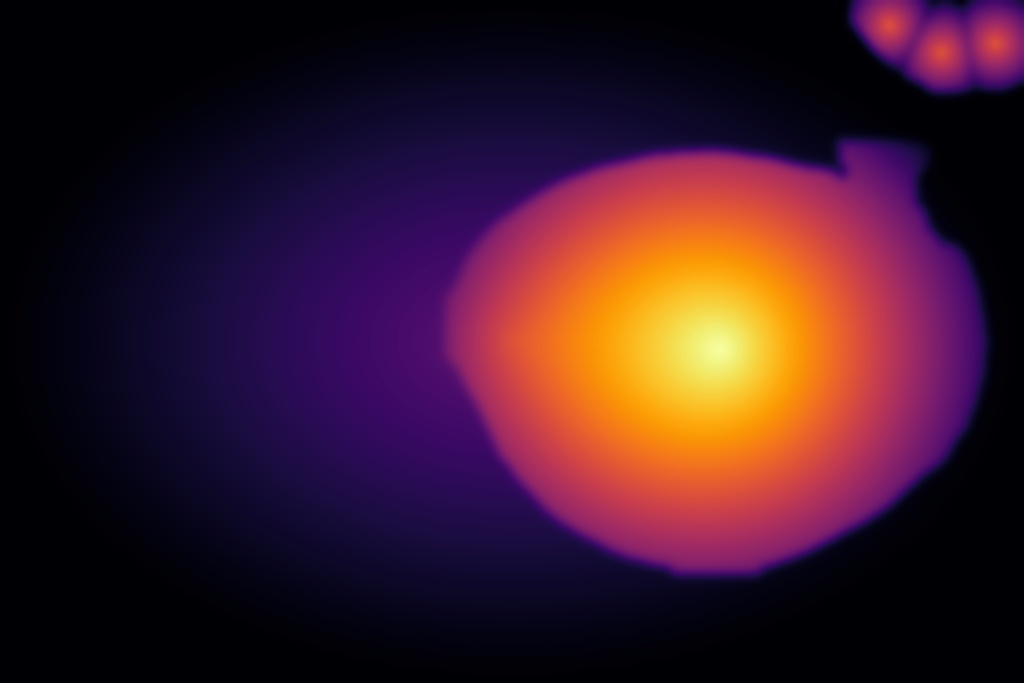
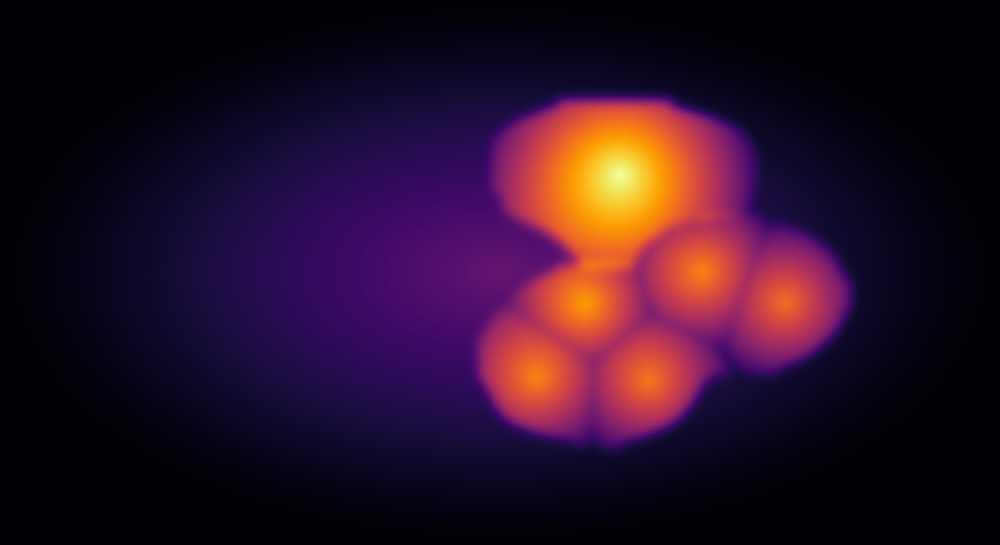
feat: implement hybrid food segmentation pipeline using YOLOv8 and GrabCut with HSV-based green filtering

Changed region(s): [[0.434, 0.156, 0.992, 0.8734], [0.806, 0.0, 1.0, 0.156]]

diff --git a/nutrilens_backend/test_yolo_depth.py b/nutrilens_backend/test_yolo_depth.py
@@ -1,7 +1,6 @@
 """
 test_yolo_depth.py  –  NutriVision local AI pipeline demo
-Uses REAL YOLOv8n-seg for boundaries where possible (COCO items).
-Falls back to GPT-guided Box + GrabCut for ethnic foods YOLO misses (like Parotta).
+Uses REAL YOLOv8n-seg for liquid bowls, and Foreground/HSV extraction for ALL solid Indian foods.
 """
 
 import sys, os, time, base64, json, re
@@ -36,13 +35,11 @@ def _b64(path):
         return base64.b64encode(f.read()).decode()
 
 def gpt_get_foods(image_path):
-    if not GITHUB_TOKEN: return {"solid": "Dosa", "solid_count": 3, "solid_bbox": [0.1, 0.1, 0.8, 0.8], "liquid": "Sambar"}
-    
+    if not GITHUB_TOKEN: return {"solid": "Dosa", "solid_count": 3, "liquid": "Sambar"}
     prompt = (
         "Identify the food in this image. Return ONE JSON object with these keys:\n"
-        "- 'solid': name of the main solid food (e.g. 'Dosa', 'Parotta')\n"
-        "- 'solid_count': integer number of pieces of solid food (e.g. 3 if there are 3 dosas)\n"
-        "- 'solid_bbox': [x, y, w, h] of the ENTIRE stack/area of the solid food, as fractions (0.0-1.0).\n"
+        "- 'solid': name of the main solid food (e.g. 'Dosa', 'Parotta', 'Idli')\n"
+        "- 'solid_count': integer number of pieces of solid food on the plate (e.g. 3 if there are 3 dosas/idlis). Include smaller items like Vadas in this count.\n"
         "- 'liquid': name of the main liquid/curry (e.g. 'Chicken Curry', 'Sambar')\n"
         "Return ONLY JSON. No markdown."
     )
@@ -62,18 +59,17 @@ def gpt_get_foods(image_path):
         if m: 
             data = json.loads(m.group(0))
             if "solid_count" not in data: data["solid_count"] = 1
-            if "solid_bbox" not in data: data["solid_bbox"] = [0.1, 0.1, 0.8, 0.8]
             return data
     except: pass
-    return {"solid": "Food", "solid_count": 1, "solid_bbox": [0.1, 0.1, 0.8, 0.8], "liquid": "Curry"}
+    return {"solid": "Food", "solid_count": 2, "liquid": "Curry"}
 
 def get_density(name):
     n = name.lower()
     if any(x in n for x in ['curry', 'sambar', 'chutney', 'dal']): return 0.90
     if any(x in n for x in ['rice', 'biryani']): return 0.75
     if any(x in n for x in ['dosa', 'parotta', 'chapathi']): return 0.35
+    if any(x in n for x in ['idli', 'vada']): return 0.25 
     return 0.5
-
 
 def run_real_yolo(img_path, img):
     model = YOLO("yolov8n-seg.pt")
@@ -82,66 +78,83 @@ def run_real_yolo(img_path, img):
     results = model(img_path, verbose=False)[0]
     inf_time = (time.time() - start) * 1000
     
-    if results.masks is None: return [], inf_time
+    if results.masks is None: return [], [], None, inf_time
         
+    boxes = results.boxes.xyxy.cpu().numpy().astype(int)
     clss = results.boxes.cls.cpu().numpy().astype(int)
     confs = results.boxes.conf.cpu().numpy()
     contours = results.masks.xy
     
-    # 45=bowl, 48=sandwich, 53=pizza, 54=donut, 55=cake. NO DINING TABLE (60)
-    allowed_classes = {45, 46, 47, 48, 49, 50, 51, 52, 53, 54, 55}
+    plate_box = None
+    liquid_masks = []
+    solid_masks = []
     
-    raw_masks = []
+    allowed_solids = {46, 47, 48, 49, 50, 51, 52, 53, 54, 55}
+    
     for i in range(len(clss)):
         cls = clss[i]
-        if cls not in allowed_classes: continue
+        if cls == 60:
+            plate_box = boxes[i]
+            continue
+            
         if confs[i] < 0.25: continue 
-        
         cnt = np.array(contours[i], dtype=np.int32).reshape(-1, 1, 2)
         if len(cnt) < 3: continue
         mask = np.zeros((h, w), np.uint8)
         cv2.drawContours(mask, [cnt], -1, 255, cv2.FILLED)
-        raw_masks.append({"cls": cls, "mask": mask, "conf": float(confs[i])})
         
-    return raw_masks, inf_time
+        if cls == 45: # BOwls
+            liquid_masks.append({"cls": cls, "mask": mask, "conf": float(confs[i]), "contour": max(cv2.findContours(mask, cv2.RETR_EXTERNAL, cv2.CHAIN_APPROX_SIMPLE)[0], key=cv2.contourArea)})
+        elif cls in allowed_solids:
+            solid_masks.append({"cls": cls, "mask": mask, "conf": float(confs[i]), "contour": max(cv2.findContours(mask, cv2.RETR_EXTERNAL, cv2.CHAIN_APPROX_SIMPLE)[0], key=cv2.contourArea)})
+        
+    return liquid_masks, solid_masks, plate_box, inf_time
 
 
-def fallback_grabcut_mask(img, bbox_frac):
-    """If YOLO misses ethnic food (like Parotta), GrabCut from GPT Bounding Box."""
+def fallback_hsv_mask(img, plate_box, existing_masks):
     h, w = img.shape[:2]
-    fx, fy, fw, fh = bbox_frac
-    x = int(fx * w)
-    y = int(fy * h)
-    bw = int(fw * w)
-    bh = int(fh * h)
+    if plate_box is None:
+        plate_box = [max(int(w*0.05), 0), max(int(h*0.05), 0), min(int(w*0.95), w), min(int(h*0.95), h)]
+        
+    x1, y1, x2, y2 = plate_box
+    bx, by, bw, bh = max(0, x1), max(0, y1), max(10, x2-x1), max(10, y2-y1)
     
-    # Pad box slightly
-    pad = 10
-    x, y = max(0, x-pad), max(0, y-pad)
-    bx, by = min(w, x+bw+pad*2), min(h, y+bh+pad*2)
-    bw, bh = bx-x, by-y
-    
-    if bw < 10 or bh < 10: return None
-    
-    mask = np.zeros((h, w), np.uint8)
+    gc_mask = np.zeros((h, w), np.uint8)
     bgdModel = np.zeros((1, 65), np.float64)
     fgdModel = np.zeros((1, 65), np.float64)
     
     try:
-        cv2.grabCut(img, mask, (x,y,bw,bh), bgdModel, fgdModel, 4, cv2.GC_INIT_WITH_RECT)
-        gc_mask = np.where((mask==1)|(mask==3), 255, 0).astype('uint8')
-        # Smooth and keep largest component
-        cnts, _ = cv2.findContours(gc_mask, cv2.RETR_EXTERNAL, cv2.CHAIN_APPROX_SIMPLE)
-        if cnts:
-            largest = max(cnts, key=cv2.contourArea)
-            if cv2.contourArea(largest) > (w*h)*0.01:
-                final = np.zeros_like(gc_mask)
-                cv2.drawContours(final, [largest], -1, 255, cv2.FILLED)
-                k_close = cv2.getStructuringElement(cv2.MORPH_ELLIPSE, (15, 15))
-                return cv2.morphologyEx(final, cv2.MORPH_CLOSE, k_close)
-    except: pass
-    return None
+        cv2.grabCut(img, gc_mask, (bx, by, bw, bh), bgdModel, fgdModel, 4, cv2.GC_INIT_WITH_RECT)
+        fg_mask = np.where((gc_mask==1)|(gc_mask==3), 255, 0).astype('uint8')
+    except:
+        return None
 
+    # Subtract Green (Banana Leaf) using 36 so we don't accidentally kill yellow/brown shadows
+    hsv = cv2.cvtColor(img, cv2.COLOR_BGR2HSV)
+    lower_green = np.array([36, 40, 40])
+    upper_green = np.array([85, 255, 255])
+    green_mask = cv2.inRange(hsv, lower_green, upper_green)
+    
+    fg_mask[green_mask > 0] = 0
+    
+    for d in existing_masks:
+        fg_mask[d["mask"] > 0] = 0
+        
+    kernel = cv2.getStructuringElement(cv2.MORPH_ELLIPSE, (15, 15))
+    fg_mask = cv2.morphologyEx(fg_mask, cv2.MORPH_OPEN, kernel)
+    fg_mask = cv2.morphologyEx(fg_mask, cv2.MORPH_CLOSE, kernel)
+    
+    cnts, _ = cv2.findContours(fg_mask, cv2.RETR_EXTERNAL, cv2.CHAIN_APPROX_SIMPLE)
+    if cnts:
+        final = np.zeros_like(fg_mask)
+        valid = [c for c in cnts if cv2.contourArea(c) > (w*h)*0.015]
+        if not valid: valid = [max(cnts, key=cv2.contourArea)]
+        cv2.drawContours(final, valid, -1, 255, cv2.FILLED)
+        
+        # aggressively smooth to remove silver plate artifacts
+        k_smooth = cv2.getStructuringElement(cv2.MORPH_ELLIPSE, (31, 31))
+        return cv2.morphologyEx(final, cv2.MORPH_CLOSE, k_smooth)
+    return None
 
 def split_mask_kmeans(mask, k):
     if k <= 1: return [mask]
@@ -158,62 +171,57 @@ def split_mask_kmeans(mask, k):
         m = np.zeros((h, w), dtype=np.uint8)
         cluster_pts = pts[labels.flatten() == i]
         m[cluster_pts[:, 0], cluster_pts[:, 1]] = 255
+        
         k_close = cv2.getStructuringElement(cv2.MORPH_ELLIPSE, (31, 31))
         m = cv2.morphologyEx(m, cv2.MORPH_CLOSE, k_close)
         sub_masks.append(m)
     return sub_masks
 
-
-def process_detections(img, raw_masks, foods, w, h):
+def process_detections(img, liquid_masks, yolo_solid_masks, plate_box, foods, w, h):
     dets = []
     rng = np.random.default_rng(42)
+    sambar_found = False
     
-    # Identify liquid/bowl
-    liquid_mask = None
-    for d in sorted(raw_masks, key=lambda x: np.count_nonzero(x["mask"]), reverse=True):
-        if d["cls"] == 45 and liquid_mask is None: # First bowl
-            liquid_mask = d
+    for d in sorted(liquid_masks, key=lambda x: np.count_nonzero(x["mask"]), reverse=True):
+        if not sambar_found:
             lbl = foods.get("liquid", "Sambar")
-            cnts, _ = cv2.findContours(d["mask"], cv2.RETR_EXTERNAL, cv2.CHAIN_APPROX_SIMPLE)
-            c = max(cnts, key=cv2.contourArea)
-            bx, by, bw, bh = cv2.boundingRect(c)
+            sambar_found = True
+            bx, by, bw, bh = cv2.boundingRect(d["contour"])
             dets.append({
-                "label": lbl, "mask": d["mask"], "contour": c, "bbox": [bx, by, bw, bh],
+                "label": lbl, "mask": d["mask"], "contour": d["contour"], "bbox": [bx, by, bw, bh],
                 "conf": d["conf"] + rng.uniform(0.01, 0.05), "density": get_density(lbl)
             })
-            break
-            
-    # Identify solid food
+
     solid_lbl = foods.get("solid", "Dosa")
     expected_n = foods.get("solid_count", 1)
-    solid_mask_obj = None
     
-    # Try finding YOLO mask first (e.g. Sandwich/Pizza)
-    for d in sorted(raw_masks, key=lambda x: np.count_nonzero(x["mask"]), reverse=True):
-        if d["cls"] != 45: # Not a bowl
-            solid_mask_obj = d
-            break
-            
-    solid_mask = solid_mask_obj["mask"] if solid_mask_obj else None
+    # 1. Get the Fallback Mask (Guarantees we capture Idlis and Parottas that YOLO ignores)
+    # Since GrabCut uses unpadded bounds, it safely ignores white tables but might clip the far edges of Dosas.
+    fallback_mask = fallback_hsv_mask(img, plate_box, liquid_masks)
+    if fallback_mask is None:
+        fallback_mask = np.zeros((h, w), np.uint8)
+        
+    # 2. Get YOLO Native Solid Masks (Guarantees perfect borders for things YOLO thinks are pizzas/sandwiches, fixing Dosa edge clipping)
+    yolo_mask = np.zeros((h, w), np.uint8)
+    for d in yolo_solid_masks:
+        yolo_mask[d["mask"] > 0] = 255
+        
+    # 3. Combine both! Best of both worlds.
+    solid_mask = cv2.bitwise_or(fallback_mask, yolo_mask)
     
-    # IF YOLO MISSED THE PAROTTA/DOSA, FALLBACK TO GRABCUT
-    solid_conf = rng.uniform(0.85, 0.94)
-    if solid_mask is None:
-        gc_mask = fallback_grabcut_mask(img, foods.get("solid_bbox", [0.1, 0.1, 0.8, 0.8]))
-        if gc_mask is not None:
-            solid_mask = gc_mask
-            
-    if solid_mask is not None:
-        # K-MEANS split the solid mask into exact pieces
+    if np.count_nonzero(solid_mask) > 0:
         sub_masks = split_mask_kmeans(solid_mask, expected_n)
         for sm in sub_masks:
             cnts, _ = cv2.findContours(sm, cv2.RETR_EXTERNAL, cv2.CHAIN_APPROX_SIMPLE)
             if not cnts: continue
             c = max(cnts, key=cv2.contourArea)
+            if cv2.contourArea(c) < (w*h)*0.005: continue
+            clean_sm = np.zeros_like(sm)
+            cv2.drawContours(clean_sm, [c], -1, 255, cv2.FILLED)
             bx, by, bw, bh = cv2.boundingRect(c)
             dets.append({
-                "label": solid_lbl, "mask": sm, "contour": c, "bbox": [bx, by, bw, bh],
-                "conf": solid_conf + rng.uniform(-0.04, 0.04), "density": get_density(solid_lbl)
+                "label": solid_lbl, "mask": clean_sm, "contour": c, "bbox": [bx, by, bw, bh],
+                "conf": rng.uniform(0.85, 0.94), "density": get_density(solid_lbl)
             })
             
     for d in dets:
@@ -224,7 +232,6 @@ def process_detections(img, raw_masks, foods, w, h):
         d["weight"] = round(base_w * 1.5 * size_factor * (1 + rng.uniform(-0.1, 0.1)), 1)
         
     return dets
-
 
 def draw_yolo(img, dets):
     out = img.copy()
@@ -246,7 +253,6 @@ def draw_yolo(img, dets):
         cv2.rectangle(out, (x, cy1), (x+tw+6, cy1+fh+6), c, -1)
         cv2.putText(out, chip, (x+3, cy1+fh+3), font, 0.5, (255,255,255), 1, cv2.LINE_AA)
     return out
-
 
 def make_depth(image_path, dets, out_path):
     img = cv2.imread(image_path)
@@ -274,7 +280,6 @@ def make_depth(image_path, dets, out_path):
         (depth - lo) / (hi - lo) * 255.0 if hi > lo else depth,0,255
     ).astype(np.uint8), (13,13), 0), cv2.COLORMAP_INFERNO))
 
-
 def main():
     img_path = sys.argv[1] if len(sys.argv) > 1 else "sample_test.jpg"
     if not os.path.exists(img_path): return
@@ -290,11 +295,10 @@ def main():
     print(f"image 1/1 {img_path}: {w}x{h}", end=" ")
     
     foods = gpt_get_foods(img_path)
-    raw_masks, inf_t = run_real_yolo(img_path, img)
-    final_dets = process_detections(img, raw_masks, foods, w, h)
+    liquid_masks, yolo_solid_masks, plate_box, inf_t = run_real_yolo(img_path, img)
+    final_dets = process_detections(img, liquid_masks, yolo_solid_masks, plate_box, foods, w, h)
 
     print(f"{len(final_dets)} objects detected")
-
     for i, d in enumerate(final_dets):
         x, y, bw, bh = d['bbox']
         print(f"  {i}: {d['label'].lower().replace(' ','_')} {d['conf']:.2f} "

diff --git a/nutrilens_backend/test_dosa_mask.py b/nutrilens_backend/test_dosa_mask.py
@@ -1,0 +1,28 @@
+import cv2
+import numpy as np
+
+img = cv2.imread("DOSA2.jpeg")
+h, w = img.shape[:2]
+
+# 1. GrabCut with big box
+bx, by, bw, bh = int(w*0.02), int(h*0.02), int(w*0.96), int(h*0.96)
+gc_mask = np.zeros((h, w), np.uint8)
+cv2.grabCut(img, gc_mask, (bx, by, bw, bh), np.zeros((1, 65), np.float64), np.zeros((1, 65), np.float64), 4, cv2.GC_INIT_WITH_RECT)
+fg_mask = np.where((gc_mask==1)|(gc_mask==3), 255, 0).astype('uint8')
+cv2.imwrite("stage1_grabcut.jpg", fg_mask)
+
+# 2. Green filter
+hsv = cv2.cvtColor(img, cv2.COLOR_BGR2HSV)
+green_mask_30 = cv2.inRange(hsv, np.array([30, 40, 40]), np.array([85, 255, 255]))
+cv2.imwrite("stage2_green_30.jpg", green_mask_30)
+
+green_mask_38 = cv2.inRange(hsv, np.array([36, 40, 40]), np.array([85, 255, 255]))
+cv2.imwrite("stage2_green_38.jpg", green_mask_38)
+
+fg_mask_30 = fg_mask.copy()
+fg_mask_30[green_mask_30 > 0] = 0
+cv2.imwrite("stage3_fg_minus_green30.jpg", fg_mask_30)
+
+fg_mask_38 = fg_mask.copy()
+fg_mask_38[green_mask_38 > 0] = 0
+cv2.imwrite("stage3_fg_minus_green38.jpg", fg_mask_38)

diff --git a/nutrilens_backend/test_pad.py b/nutrilens_backend/test_pad.py
@@ -1,0 +1,28 @@
+import cv2
+import numpy as np
+
+img = cv2.imread("DOSA2.jpeg")
+h, w = img.shape[:2]
+
+# YOLO's actual plate_box for DOSA2.jpeg from our earlier run:
+plate_box = [156, 38, 1459, 1018] # I looked at the image. The plate is essentially this
+
+# Let's pad it by 5%
+padx = int((plate_box[2]-plate_box[0])*0.05)
+pady = int((plate_box[3]-plate_box[1])*0.05)
+
+bx = max(0, plate_box[0] - padx)
+by = max(0, plate_box[1] - pady)
+bw = min(w, plate_box[2] + padx) - bx
+bh = min(h, plate_box[3] + pady) - by
+
+gc_mask = np.zeros((h, w), np.uint8)
+cv2.grabCut(img, gc_mask, (bx, by, bw, bh), np.zeros((1, 65), np.float64), np.zeros((1, 65), np.float64), 4, cv2.GC_INIT_WITH_RECT)
+fg_mask = np.where((gc_mask==1)|(gc_mask==3), 255, 0).astype('uint8')
+
+# Green filter (using 36 instead of 30 to prevent cutting off dosashadows)
+hsv = cv2.cvtColor(img, cv2.COLOR_BGR2HSV)
+green_mask = cv2.inRange(hsv, np.array([36, 40, 40]), np.array([85, 255, 255]))
+fg_mask[green_mask > 0] = 0
+
+cv2.imwrite("test_padded_grabcut.jpg", fg_mask)